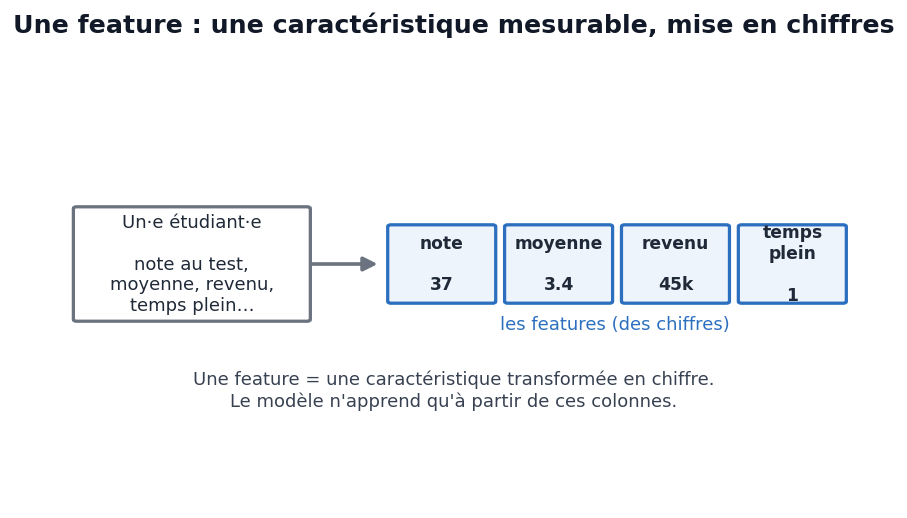
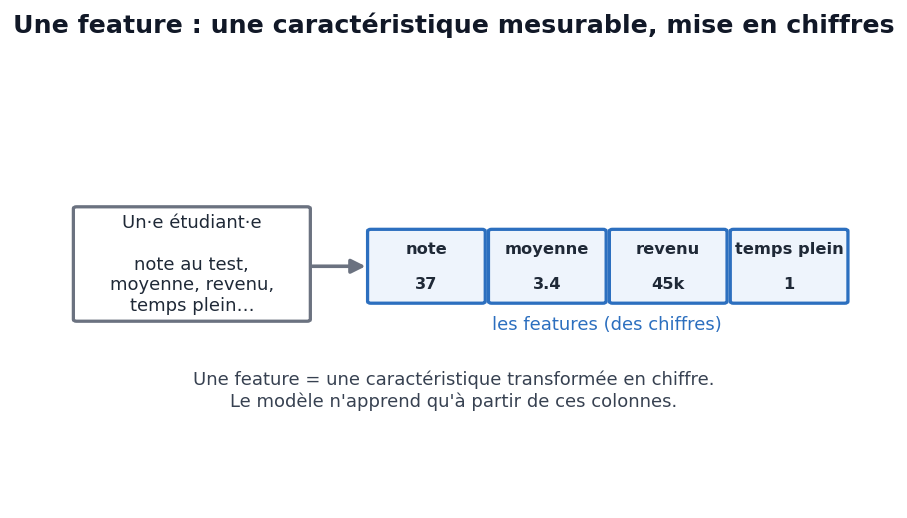
J2-02 : corriger le centrage de la boîte « temps plein » dans le schéma feature

Changed region(s): [[0.3396, 0.4324, 0.957, 0.5869], [0.5248, 0.5869, 0.8026, 0.6486], [0.4631, 0.5251, 0.4939, 0.556]]

diff --git a/ressources/j2/1_matin/img/make_schemas.py b/ressources/j2/1_matin/img/make_schemas.py
@@ -196,13 +196,13 @@ plt.close(fig); print("écrit m2-confusion.png")
 # 2.1 La notion de feature
 fig, ax = base("Une feature : une caractéristique mesurable, mise en chiffres")
 boite(ax, 0.3, 4.1, 2.9, 2.5, "Un·e étudiant·e\n\nnote au test,\nmoyenne, revenu,\ntemps plein…", GRIS, fs=10)
-fleche(ax, 3.2, 5.35, 4.1, 5.35)
-feats = [("note", "37"), ("moyenne", "3.4"), ("revenu", "45k"), ("temps\nplein", "1")]
-x0 = 4.2
+fleche(ax, 3.2, 5.3, 3.95, 5.3)
+feats = [("note", "37"), ("moyenne", "3.4"), ("revenu", "45k"), ("temps plein", "1")]
+x0 = 3.95
 for i, (nom, val) in enumerate(feats):
-    x = x0 + i * 1.45
-    boite(ax, x, 4.5, 1.3, 1.7, f"{nom}\n\n{val}", BLEU, fc="#eef4fc", fs=9.5, bold=True)
-ax.text(x0 + 2 * 1.45 - 0.1, 3.9, "les features (des chiffres)", ha="center", fontsize=10, color=BLEU)
+    x = x0 + i * 1.5
+    boite(ax, x, 4.5, 1.42, 1.6, f"{nom}\n\n{val}", BLEU, fc="#eef4fc", fs=9, bold=True)
+ax.text(6.9, 3.9, "les features (des chiffres)", ha="center", fontsize=10, color=BLEU)
 ax.text(5, 2.2, "Une feature = une caractéristique transformée en chiffre.\n"
                 "Le modèle n'apprend qu'à partir de ces colonnes.", ha="center", fontsize=10, color="#374151")
 save(fig, "m2-feature.png")